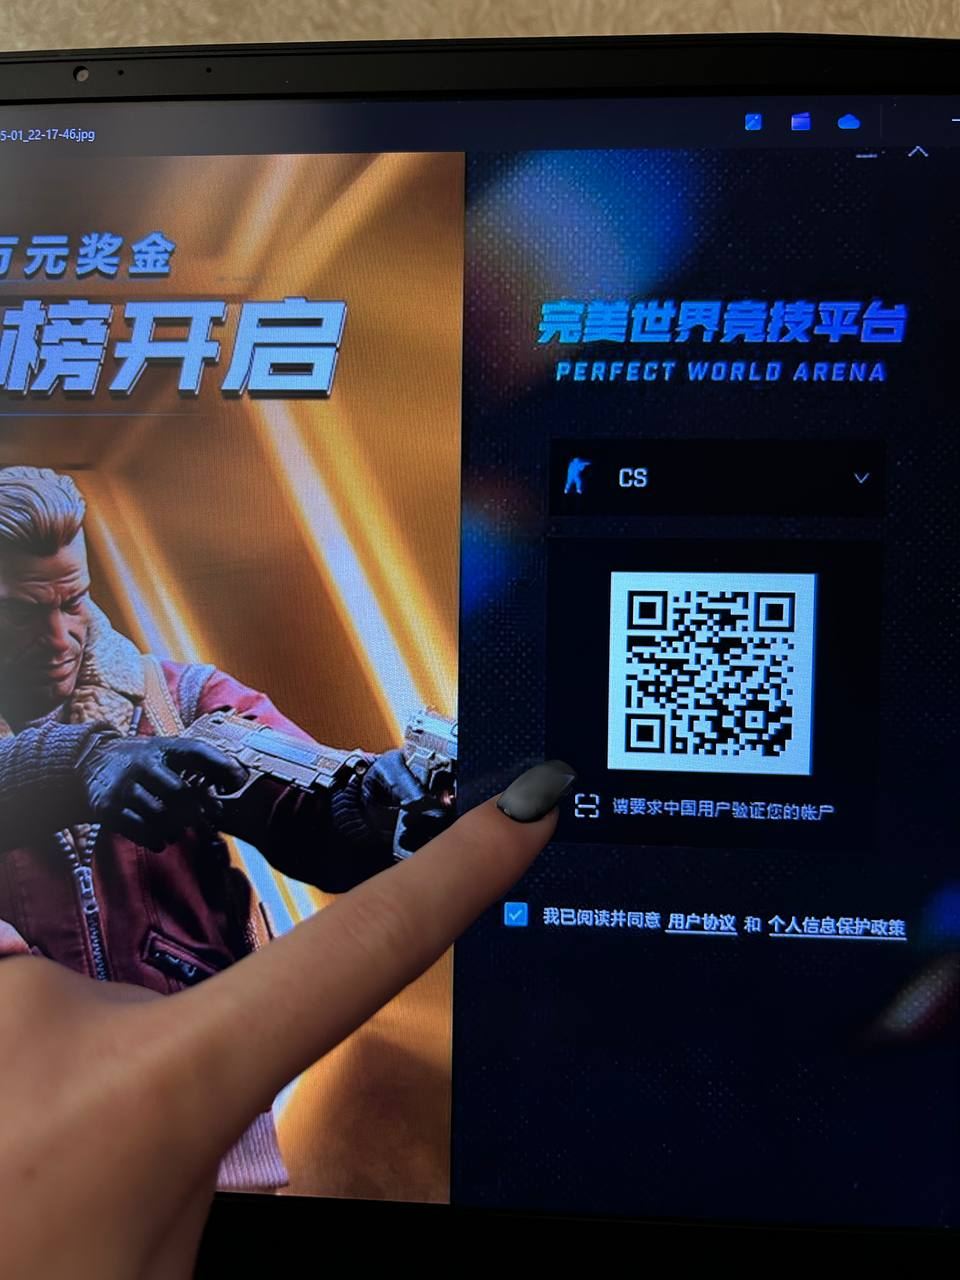
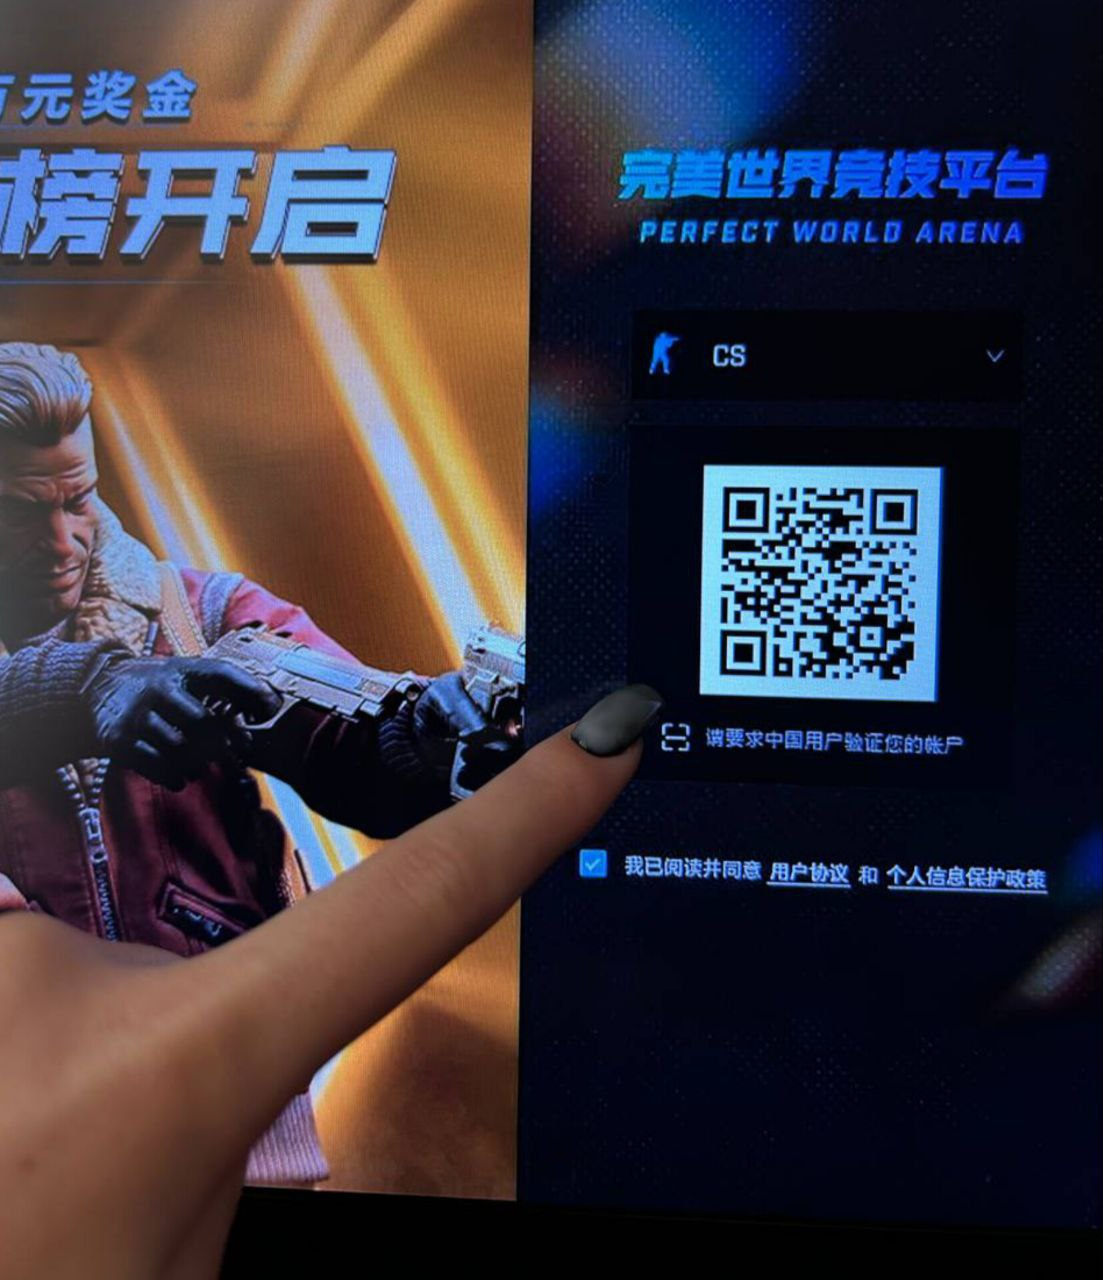
Changes   starting.py   img.png

diff --git a/logics/starting.py b/logics/starting.py
@@ -86,11 +86,11 @@ async def handle_photo(message: Message):
     qr_with_noise = darken_image(qr_with_noise, factor=0.98)
 
     rotated_qr = rotate_image_with_transparency(qr_with_noise, -2)
-    resized_qr = cv2.resize(rotated_qr, (213, 213))
+    resized_qr = cv2.resize(rotated_qr, (252, 252))
 
     resized_qr_bgr = cv2.cvtColor(resized_qr, cv2.COLOR_BGRA2BGR)
 
-    x_offset, y_offset = 607, 570
+    x_offset, y_offset = 698, 463
     h, w = resized_qr_bgr.shape[:2]
     base_img[y_offset:y_offset + h, x_offset:x_offset + w] = resized_qr_bgr
 
